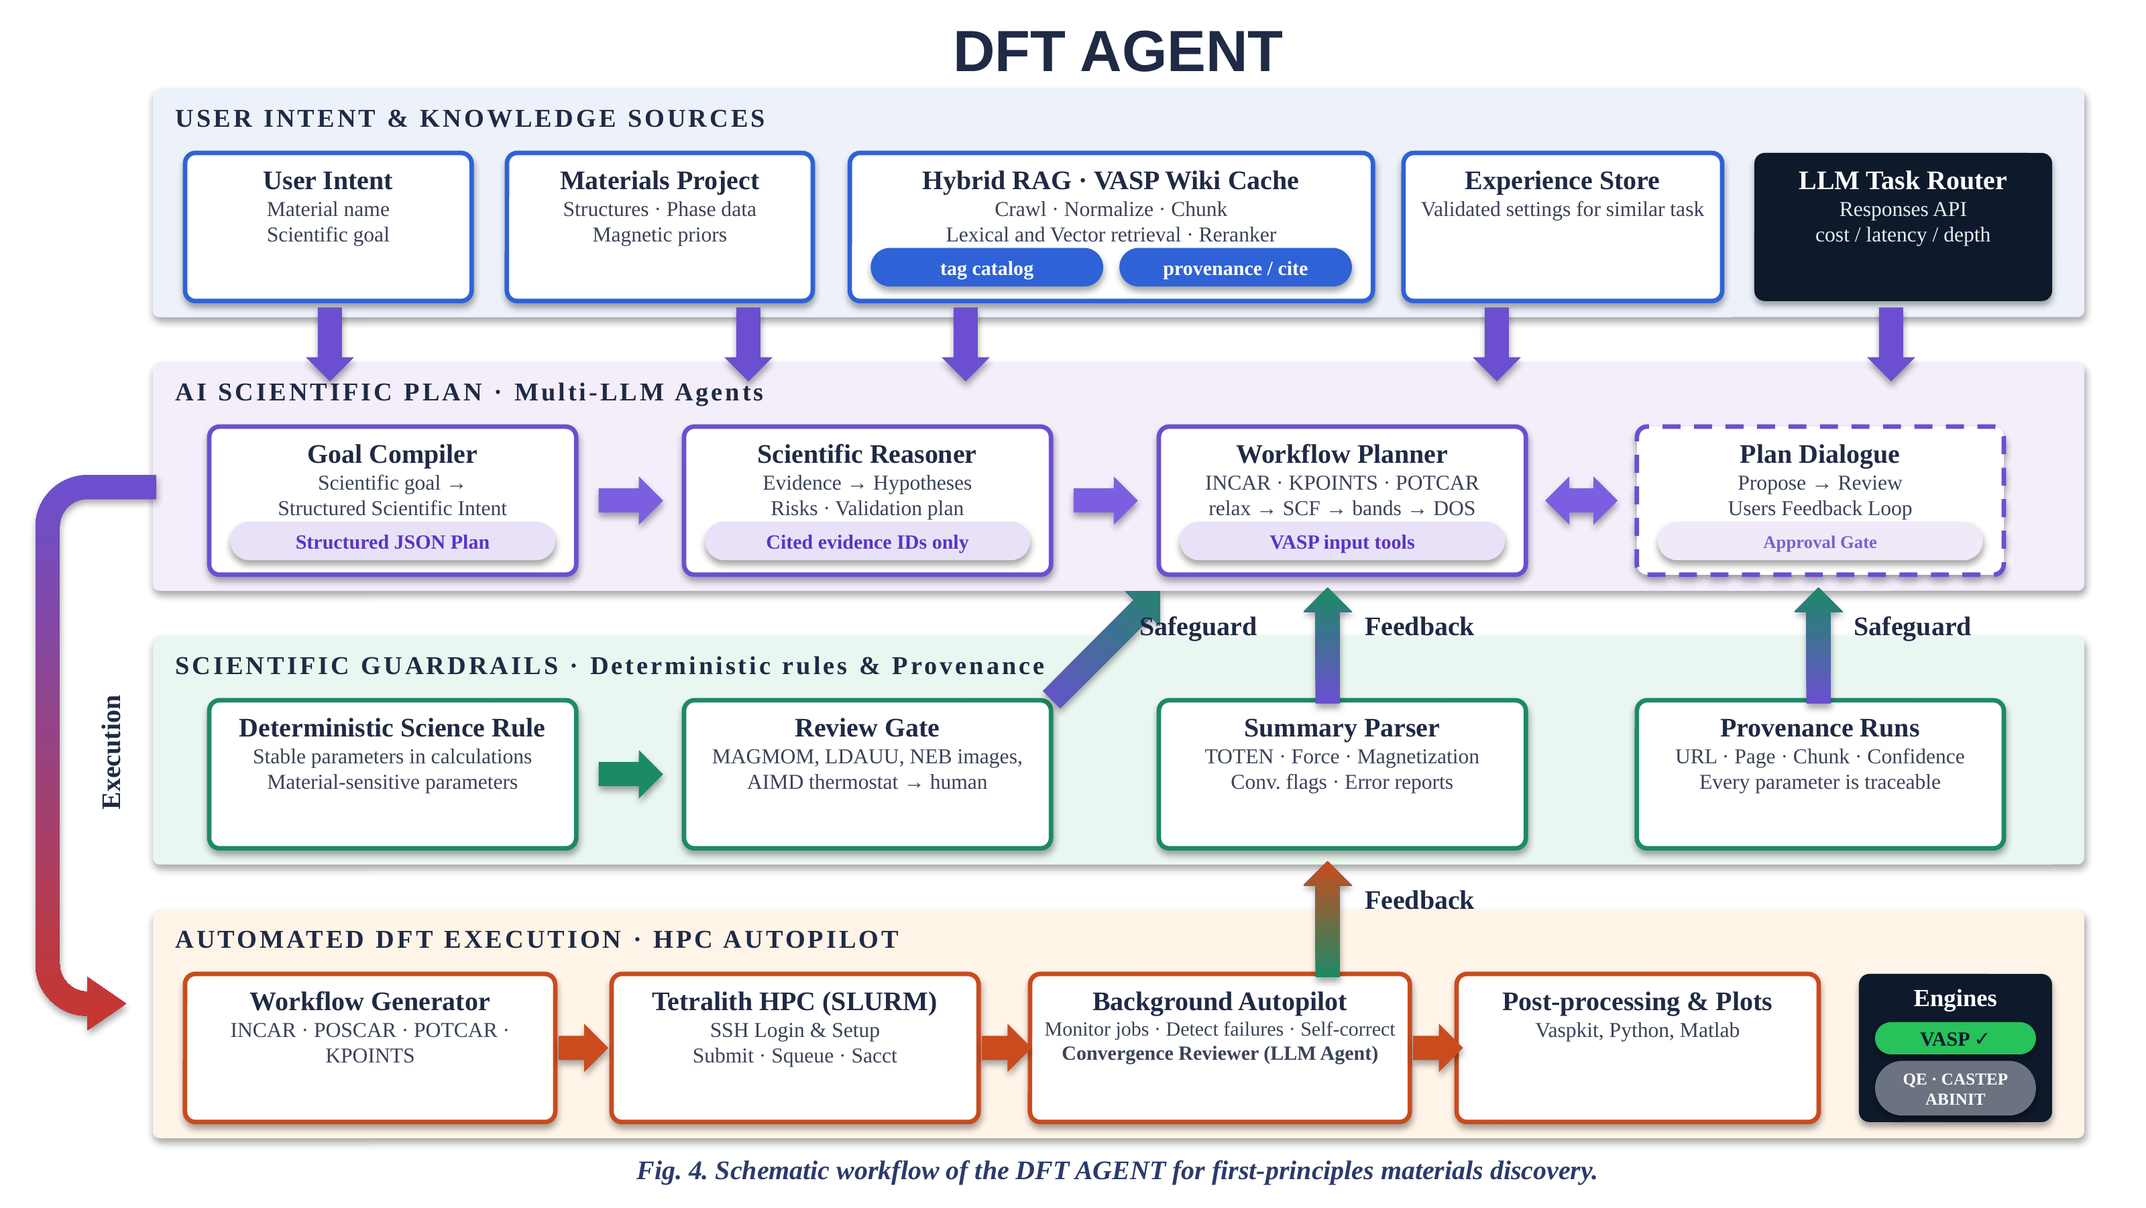
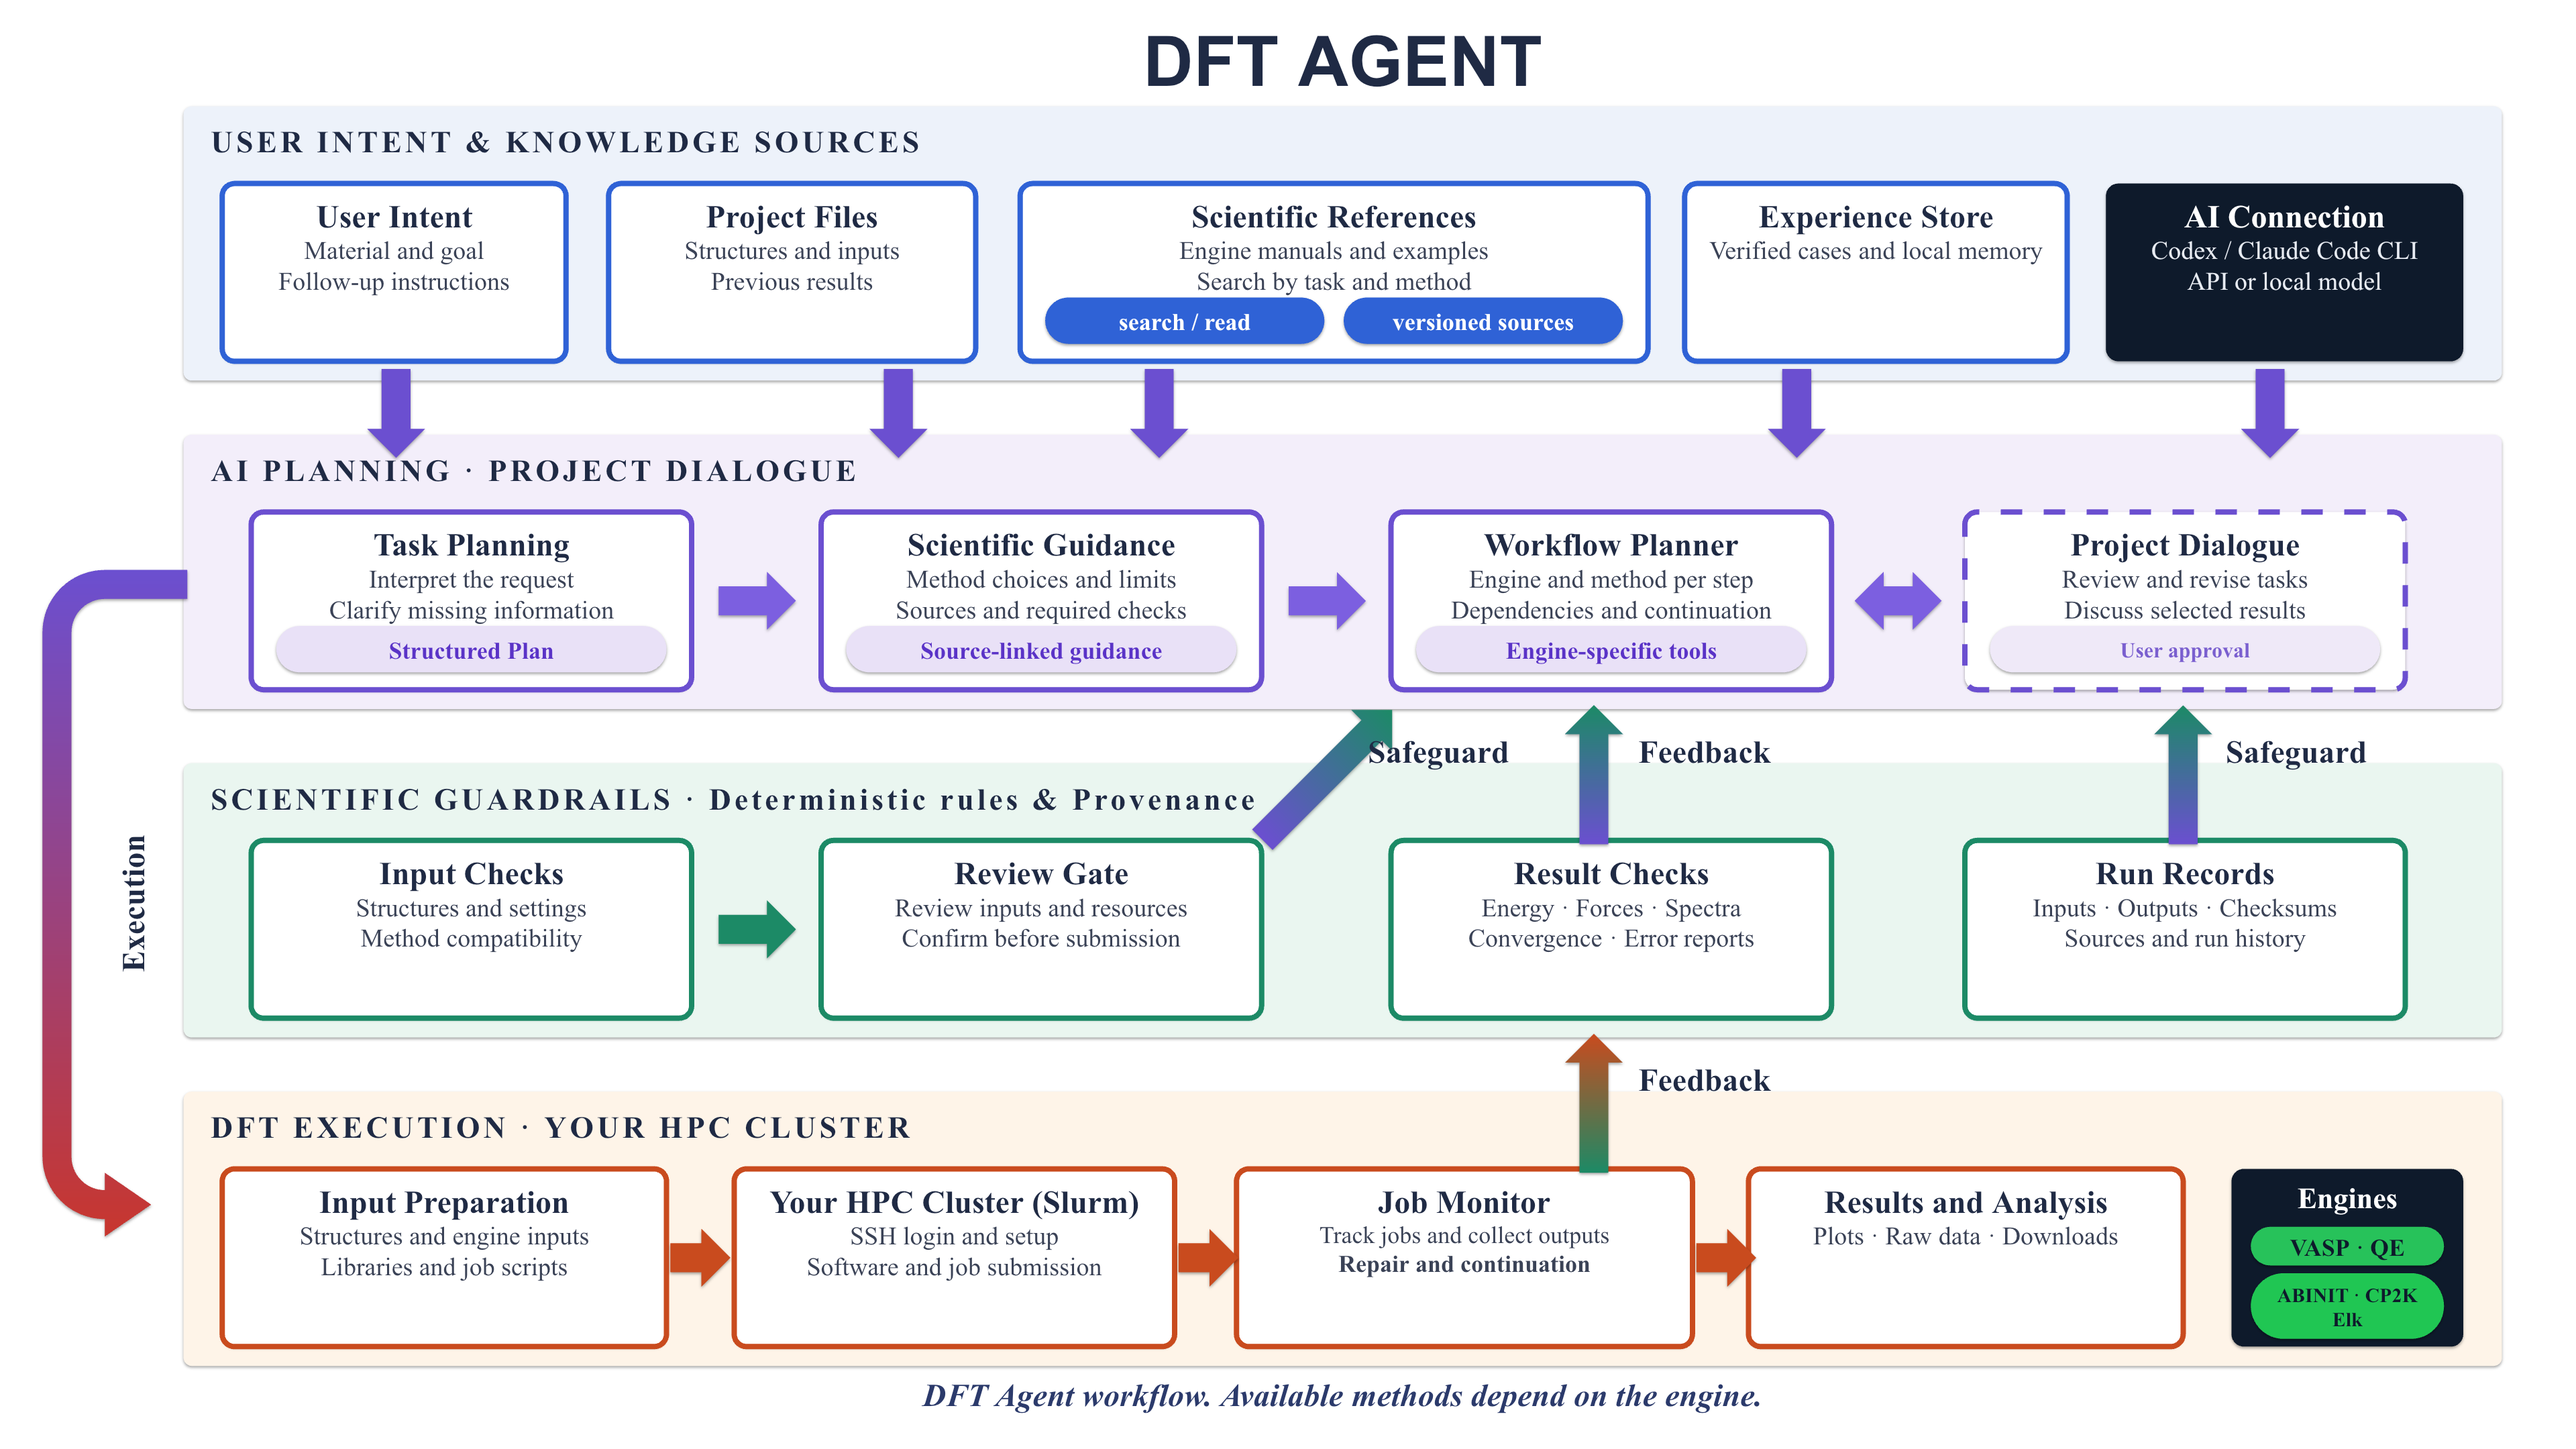
README

diff --git a/README.md b/README.md
@@ -1,18 +1,16 @@
-# DFT Agent
+# DFT AGENT
 
-![DFT Agent](docs/assets/dft-agent-logo.png)
+![DFT Agent: VASP, Quantum ESPRESSO, ABINIT, CP2K and Elk](docs/assets/dft-agent-banner.png)
 
-Version `0.4.7`. [中文说明](README.zh-CN.md)
+**[Download v0.4.7](https://github.com/cuiqirui99/DFT-AGENT/releases/tag/v0.4.7)** · [macOS](https://github.com/cuiqirui99/DFT-AGENT/releases/download/v0.4.7/DFT-Agent-0.4.7-macOS-arm64.dmg) · [Windows](https://github.com/cuiqirui99/DFT-AGENT/releases/download/v0.4.7/DFT-Agent-0.4.7-Windows-x64.exe) · [Python](https://pypi.org/project/dft-agent/0.4.7/) · [Quickstart](docs/quickstart.md) · [中文](README.zh-CN.md)
 
 [Qirui Cui](https://www.kth.se/profile/qiruic?l=en) · KTH Royal Institute of Technology; [Anna Delin](https://www.kth.se/profile/annadel) · KTH Royal Institute of Technology
 
-Describe a calculation, review its inputs, and run VASP, Quantum ESPRESSO, ABINIT, CP2K or Elk on your own HPC cluster. Each project keeps its files, conversations and results together. You can revise tasks in chat, combine engines in a workflow, and discuss the results when they return.
+Describe your calculation in chat. DFT Agent prepares the inputs and runs VASP, Quantum ESPRESSO, ABINIT, CP2K or Elk on your HPC cluster. Each project keeps its files, conversations and results together, so you can revise tasks and discuss the results in one place.
 
 ![DFT Agent workflow](docs/assets/workflow.png)
 
-Conceptual overview. Current engines: VASP, Quantum ESPRESSO, ABINIT, CP2K and Elk (the last three from 0.4.5).
-
-The built-in workflows cover structure edits, relaxation, SCF, bands, DOS, magnetism, SOC, DFT+U and hybrid functionals. Available methods depend on the engine. [QE](docs/qe.md) also supports installation, phonons, NEB, electron–phonon coupling and conventional superconductivity. [ABINIT, CP2K and Elk](docs/open-source-codes.md) install from the app on supported Linux clusters: ABINIT adds phonons, CP2K large-cell calculations and molecular dynamics, and Elk optics and real-time TDDFT.
+Workflows include structure editing, relaxation, SCF, bands, DOS, magnetism, SOC, DFT+U and hybrid functionals. [QE](docs/qe.md) also supports phonons, NEB, electron–phonon coupling and conventional superconductivity. [ABINIT, CP2K and Elk](docs/open-source-codes.md) add methods for phonons, molecular dynamics and optical response. Available methods depend on the engine.
 
 ![SrTiO3 crystal](docs/assets/crystal.png)
 
@@ -32,25 +30,25 @@ python -m pip install "dft-agent[agent]==0.4.7"
 dft-agent ui
 ```
 
-[Source installation](docs/install.md#python-installation-from-source).
+[Installation help](docs/install.md#desktop-app) · [Source installation](docs/install.md#python-installation-from-source).
 
 ## Start a project
 
-1. Click **New project** and give it a name.
-2. Open **Connections → Model**. Follow the steps to install and sign in to **Codex CLI** or **Claude Code CLI**, or paste your provider's API key. **Test connection** checks a saved connection. [Model setup](docs/models.md).
-3. Open **Cluster** and enter your SSH address, such as `ssh name@cluster`. The app tries your keys first, then asks for a password or login code when needed. Review the detected software, or add it under **Software**. If QE is missing, review and start its installation here. [Cluster setup](docs/install.md#your-first-cluster-setup).
-4. Return to chat. Open **Files and runs → Files → Add files**, upload your structure, and click **Import files**. Describe what you want to calculate and refine the plan in the same conversation.
-5. Click **Prepare inputs**, review the files and resources, tick the confirmation box, and click **Submit**. Follow the task in **Files and runs → Jobs** and open its outputs under **Results**.
+Create a project with **New project**, then:
 
-The engine is selected per workflow step. A project can use one engine or several; it does not need a global switch. **Attach results** selects the runs for a follow-up discussion.
+1. **Connect AI.** Open **Connections → Model**. Sign in to Codex CLI or Claude Code CLI, or enter an API key, then click **Connect**. [Account and token guide](docs/models.md).
+2. **Connect your cluster.** In **Cluster**, enter your SSH address and follow the password or verification-code prompts. Select your installed software, or install an open-source engine on a supported cluster. [Cluster setup](docs/install.md#your-first-cluster-setup).
+3. **Run a calculation.** Upload your structure under **Files and runs → Files** and click **Import files**. Describe the task in chat and refine the plan. Click **Prepare inputs**, review the files and resources, then confirm **Submit**.
 
-Model calls use your own account and quota. API keys and saved SSH passwords stay in the system keychain; login codes are not saved. VASP requires licensed VASP and POTCAR files. QE, ABINIT, CP2K and Elk are open source; the app installs them and their public libraries. No model credits or cluster allocation are included.
+Track jobs and download outputs in **Files and runs**. Use **Attach results** to discuss a run. Each workflow step can use a different engine.
+
+Model calls use your own account and quota. You also need an HPC account; VASP requires licensed software and POTCAR files. [Requirements](docs/install.md#your-first-cluster-setup).
 
 ## Explore offline
 
 ![Band structure of a sample run](docs/assets/screenshot-results.png)
 
-Open **Settings → Legacy workbench → Runs → Load sample runs** to browse the bundled SrTiO3, Si, MgO and Fe results. The legacy workbench also retains manual input preparation, the original forms and Memory browser. Use **Settings → Language / 语言** to change the project interface language.
+Open **Settings → Classic workbench → Runs → Load sample runs** to explore the bundled SrTiO3, Si, MgO and Fe results without a cluster. Manual preparation and the Memory browser are also available there.
 
 [Quickstart](docs/quickstart.md) · [Project guide](docs/project-workspace.md#use-the-workspace) · [Workflows](docs/workflows.md) · [Scientific guidance](docs/harness.md) · [Memory](docs/memory.md)
 

diff --git a/README.zh-CN.md b/README.zh-CN.md
@@ -1,14 +1,16 @@
-# DFT Agent
+# DFT AGENT
 
-![DFT Agent](docs/assets/dft-agent-logo.png)
+![DFT Agent：VASP、Quantum ESPRESSO、ABINIT、CP2K 和 Elk](docs/assets/dft-agent-banner.png)
 
-版本 `0.4.7`。[English](README.md)
+**[下载 v0.4.7](https://github.com/cuiqirui99/DFT-AGENT/releases/tag/v0.4.7)** · [macOS](https://github.com/cuiqirui99/DFT-AGENT/releases/download/v0.4.7/DFT-Agent-0.4.7-macOS-arm64.dmg) · [Windows](https://github.com/cuiqirui99/DFT-AGENT/releases/download/v0.4.7/DFT-Agent-0.4.7-Windows-x64.exe) · [Python](https://pypi.org/project/dft-agent/0.4.7/) · [快速开始](docs/quickstart.md) · [English](README.md)
 
 [Qirui Cui](https://www.kth.se/profile/qiruic?l=en) · KTH 皇家理工学院 · [ORCID](https://orcid.org/0009-0005-6165-3237)
 
-用自然语言描述计算，检查输入文件，然后在自己的超算集群上运行 VASP、Quantum ESPRESSO、ABINIT、CP2K 或 Elk。每个项目独立保存文件、对话和结果，你可以反复修改任务、组合多种程序，并在计算结束后继续分析数据。
+在对话中描述计算任务，DFT Agent 为你准备输入文件，并在自己的超算集群上运行 VASP、Quantum ESPRESSO、ABINIT、CP2K 或 Elk。每个项目独立保存文件、对话和结果，可以在同一处修改任务、讨论数据。
 
-支持结构编辑、弛豫、SCF、能带、态密度、磁性、SOC、DFT+U 和杂化泛函，具体方法取决于计算程序。[QE](docs/qe.md)还支持安装部署、声子、NEB、电子–声子耦合和常规超导计算。[ABINIT、CP2K 和 Elk](docs/open-source-codes.md)可在支持的 Linux 集群上通过应用安装：ABINIT 支持声子，CP2K 支持大晶胞计算和分子动力学，Elk 支持光学和实时 TDDFT。
+![DFT Agent 工作流程](docs/assets/workflow.png)
+
+支持结构编辑、弛豫、SCF、能带、态密度、磁性、SOC、DFT+U 和杂化泛函。[QE](docs/qe.md)还支持声子、NEB、电子–声子耦合和常规超导计算。[ABINIT、CP2K 和 Elk](docs/open-source-codes.md)提供声子、分子动力学和光学响应等方法。具体能力取决于计算程序。
 
 ## 安装
 
@@ -26,23 +28,23 @@ python -m pip install "dft-agent[agent]==0.4.7"
 dft-agent ui
 ```
 
-[从源码安装](docs/install.md#python-installation-from-source)。
+[安装帮助](docs/install.md#desktop-app) · [从源码安装](docs/install.md#python-installation-from-source)。
 
 ## 开始使用
 
-1. 点击 **New project（新建项目）**，为项目命名。
-2. 打开 **Connections → Model（连接 → 模型）**。按提示安装并登录 **Codex CLI** 或 **Claude Code CLI**，也可以填写服务商的 API 密钥。已有连接可用 **Test connection** 检查。[模型设置](docs/models.md)。
-3. 打开 **Cluster（集群）**，输入 `ssh 用户名@主机`。程序先尝试 SSH 密钥，再按集群要求询问密码或验证码。检查探测到的软件，或在 **Software（软件）** 中添加配置。缺少 QE 时，可在这里检查安装计划并启动构建。[集群设置](docs/install.md#your-first-cluster-setup)。
-4. 回到对话，在 **Files and runs → Files → Add files** 上传结构，点击 **Import files**，然后描述任务。后续修改继续在同一对话中完成。
-5. 点击 **Prepare inputs**，检查文件和计算资源，勾选确认框，再点击 **Submit**。在 **Files and runs → Jobs** 查看进度，在 **Results** 查看输出。
+点击 **New project（新建项目）**，然后：
 
-计算程序按工作流中的步骤选择，一个项目可以只用一种，也可以组合多种；无需切换整个项目。用 **Attach results** 选择要在对话中讨论的计算结果。
+1. **连接 AI。** 打开 **Connections → Model（连接 → 模型）**，登录 Codex CLI 或 Claude Code CLI，也可以填写 API 密钥，再点击 **Connect**。[账号与 token 指南](docs/models.md)。
+2. **连接超算。** 在 **Cluster（集群）** 输入 SSH 地址，按提示输入密码或验证码。选择已有计算程序，或在支持的集群上安装开源程序。[集群设置](docs/install.md#your-first-cluster-setup)。
+3. **开始计算。** 在 **Files and runs → Files** 上传结构并点击 **Import files**，用自然语言描述任务并修改计划。点击 **Prepare inputs**，检查文件和资源后确认 **Submit**。
 
-模型调用使用你自己的账号和额度。API 密钥及保存的 SSH 密码存入系统钥匙串，验证码不保存。VASP 需要已授权的程序和 POTCAR；QE、ABINIT、CP2K 和 Elk 都是开源软件，应用会自动安装它们及公开的赝势或基组。软件不包含模型额度或超算机时。
+在 **Files and runs** 查看任务和下载输出，用 **Attach results** 选择要讨论的结果。工作流的不同步骤可以使用不同计算程序。
+
+模型调用使用你自己的账号和额度。计算需要超算账号；VASP 需要已授权的程序和 POTCAR。[使用要求](docs/install.md#your-first-cluster-setup)。
 
 ## 离线试用
 
-打开 **Settings → Legacy workbench → Runs → Load sample runs**，可浏览内置的 SrTiO3、Si、MgO 和 Fe 计算结果。旧工作台保留手动准备输入、原有表单和 Memory 浏览功能。在 **Settings → Language / 语言** 中切换项目界面的语言。
+打开 **Settings → Classic workbench → Runs → Load sample runs**，无需连接超算即可浏览内置的 SrTiO3、Si、MgO 和 Fe 结果。手动准备输入和 Memory 浏览功能也保留在这里。
 
 [快速开始](docs/quickstart.md) · [项目指南](docs/project-workspace.md#use-the-workspace) · [工作流程](docs/workflows.md) · [科学指导](docs/harness.md) · [记忆](docs/memory.md)
 

diff --git a/docs/desktop.md b/docs/desktop.md
@@ -1,9 +1,9 @@
 # Desktop builds
 
-Version `0.4.4` provides installers for Apple Silicon Macs running macOS 14
+Version `0.4.7` provides installers for Apple Silicon Macs running macOS 14
 or later and Windows x64. Python and the scientific/model SDKs are
 bundled; VASP, POTCAR files, cluster time, API credentials and model credits
-are not. Download the installers from [v0.4.4](https://github.com/cuiqirui99/DFT-AGENT/releases/tag/v0.4.4).
+are not. Download the installers from [v0.4.7](https://github.com/cuiqirui99/DFT-AGENT/releases/tag/v0.4.7).
 Codex CLI and Claude Code are optional external tools; install and sign in to
 either one, or use an API connection in the app.
 
@@ -23,7 +23,7 @@ app has passed its checks:
 mkdir -p dist/dmg
 cp -R 'dist/DFT Agent.app' dist/dmg/
 ln -s /Applications dist/dmg/Applications
-hdiutil create -volname 'DFT Agent' -srcfolder dist/dmg -ov -format UDZO dist/DFT-Agent-0.4.4-macOS-arm64.dmg
+hdiutil create -volname 'DFT Agent' -srcfolder dist/dmg -ov -format UDZO dist/DFT-Agent-0.4.7-macOS-arm64.dmg
 ```
 
 On Windows, the app folder is `dist/DFT Agent`. The

diff --git a/docs/quickstart.md b/docs/quickstart.md
@@ -2,7 +2,7 @@
 
 ## 1. Install and create a project
 
-Download [v0.4.6](https://github.com/cuiqirui99/DFT-AGENT/releases/tag/v0.4.6),
+Download [v0.4.7](https://github.com/cuiqirui99/DFT-AGENT/releases/tag/v0.4.7),
 install the Mac `.dmg` or Windows `.exe`, and open **DFT Agent**.
 Python and model SDKs are included. Linux and source installations are covered
 in [Install](install.md).
@@ -89,9 +89,9 @@ Closing the browser does not cancel submitted jobs. Keep the computer running
 and connected for local monitoring and subsequent stages. Project files and
 history are kept under `~/.dft-agent/`; see [storage and updates](install.md#files-and-updates).
 
-## Legacy workbench
+## Classic workbench
 
-Open **Settings → Legacy workbench** for the previous interface, manual
+Open **Settings → Classic workbench** for the previous interface, manual
 preparation, sample runs and the Memory browser. Its **New calculation**,
 **Cluster setup** and **Runs** instructions belong to that view.
 

diff --git a/docs/install.md b/docs/install.md
@@ -30,7 +30,7 @@ your IT team. [Microsoft's guidance](https://learn.microsoft.com/en-us/windows/a
 3. Return to chat, import a structure under **Files and runs → Files → Add files**,
    and describe the calculation. Review **Prepare inputs** before **Submit**.
 
-For offline samples and manual preparation, open **Settings → Legacy workbench**.
+For offline samples and manual preparation, open **Settings → Classic workbench**.
 The previous **Runs**, **New calculation** and **Cluster setup** pages remain there.
 
 ## Your first cluster setup
